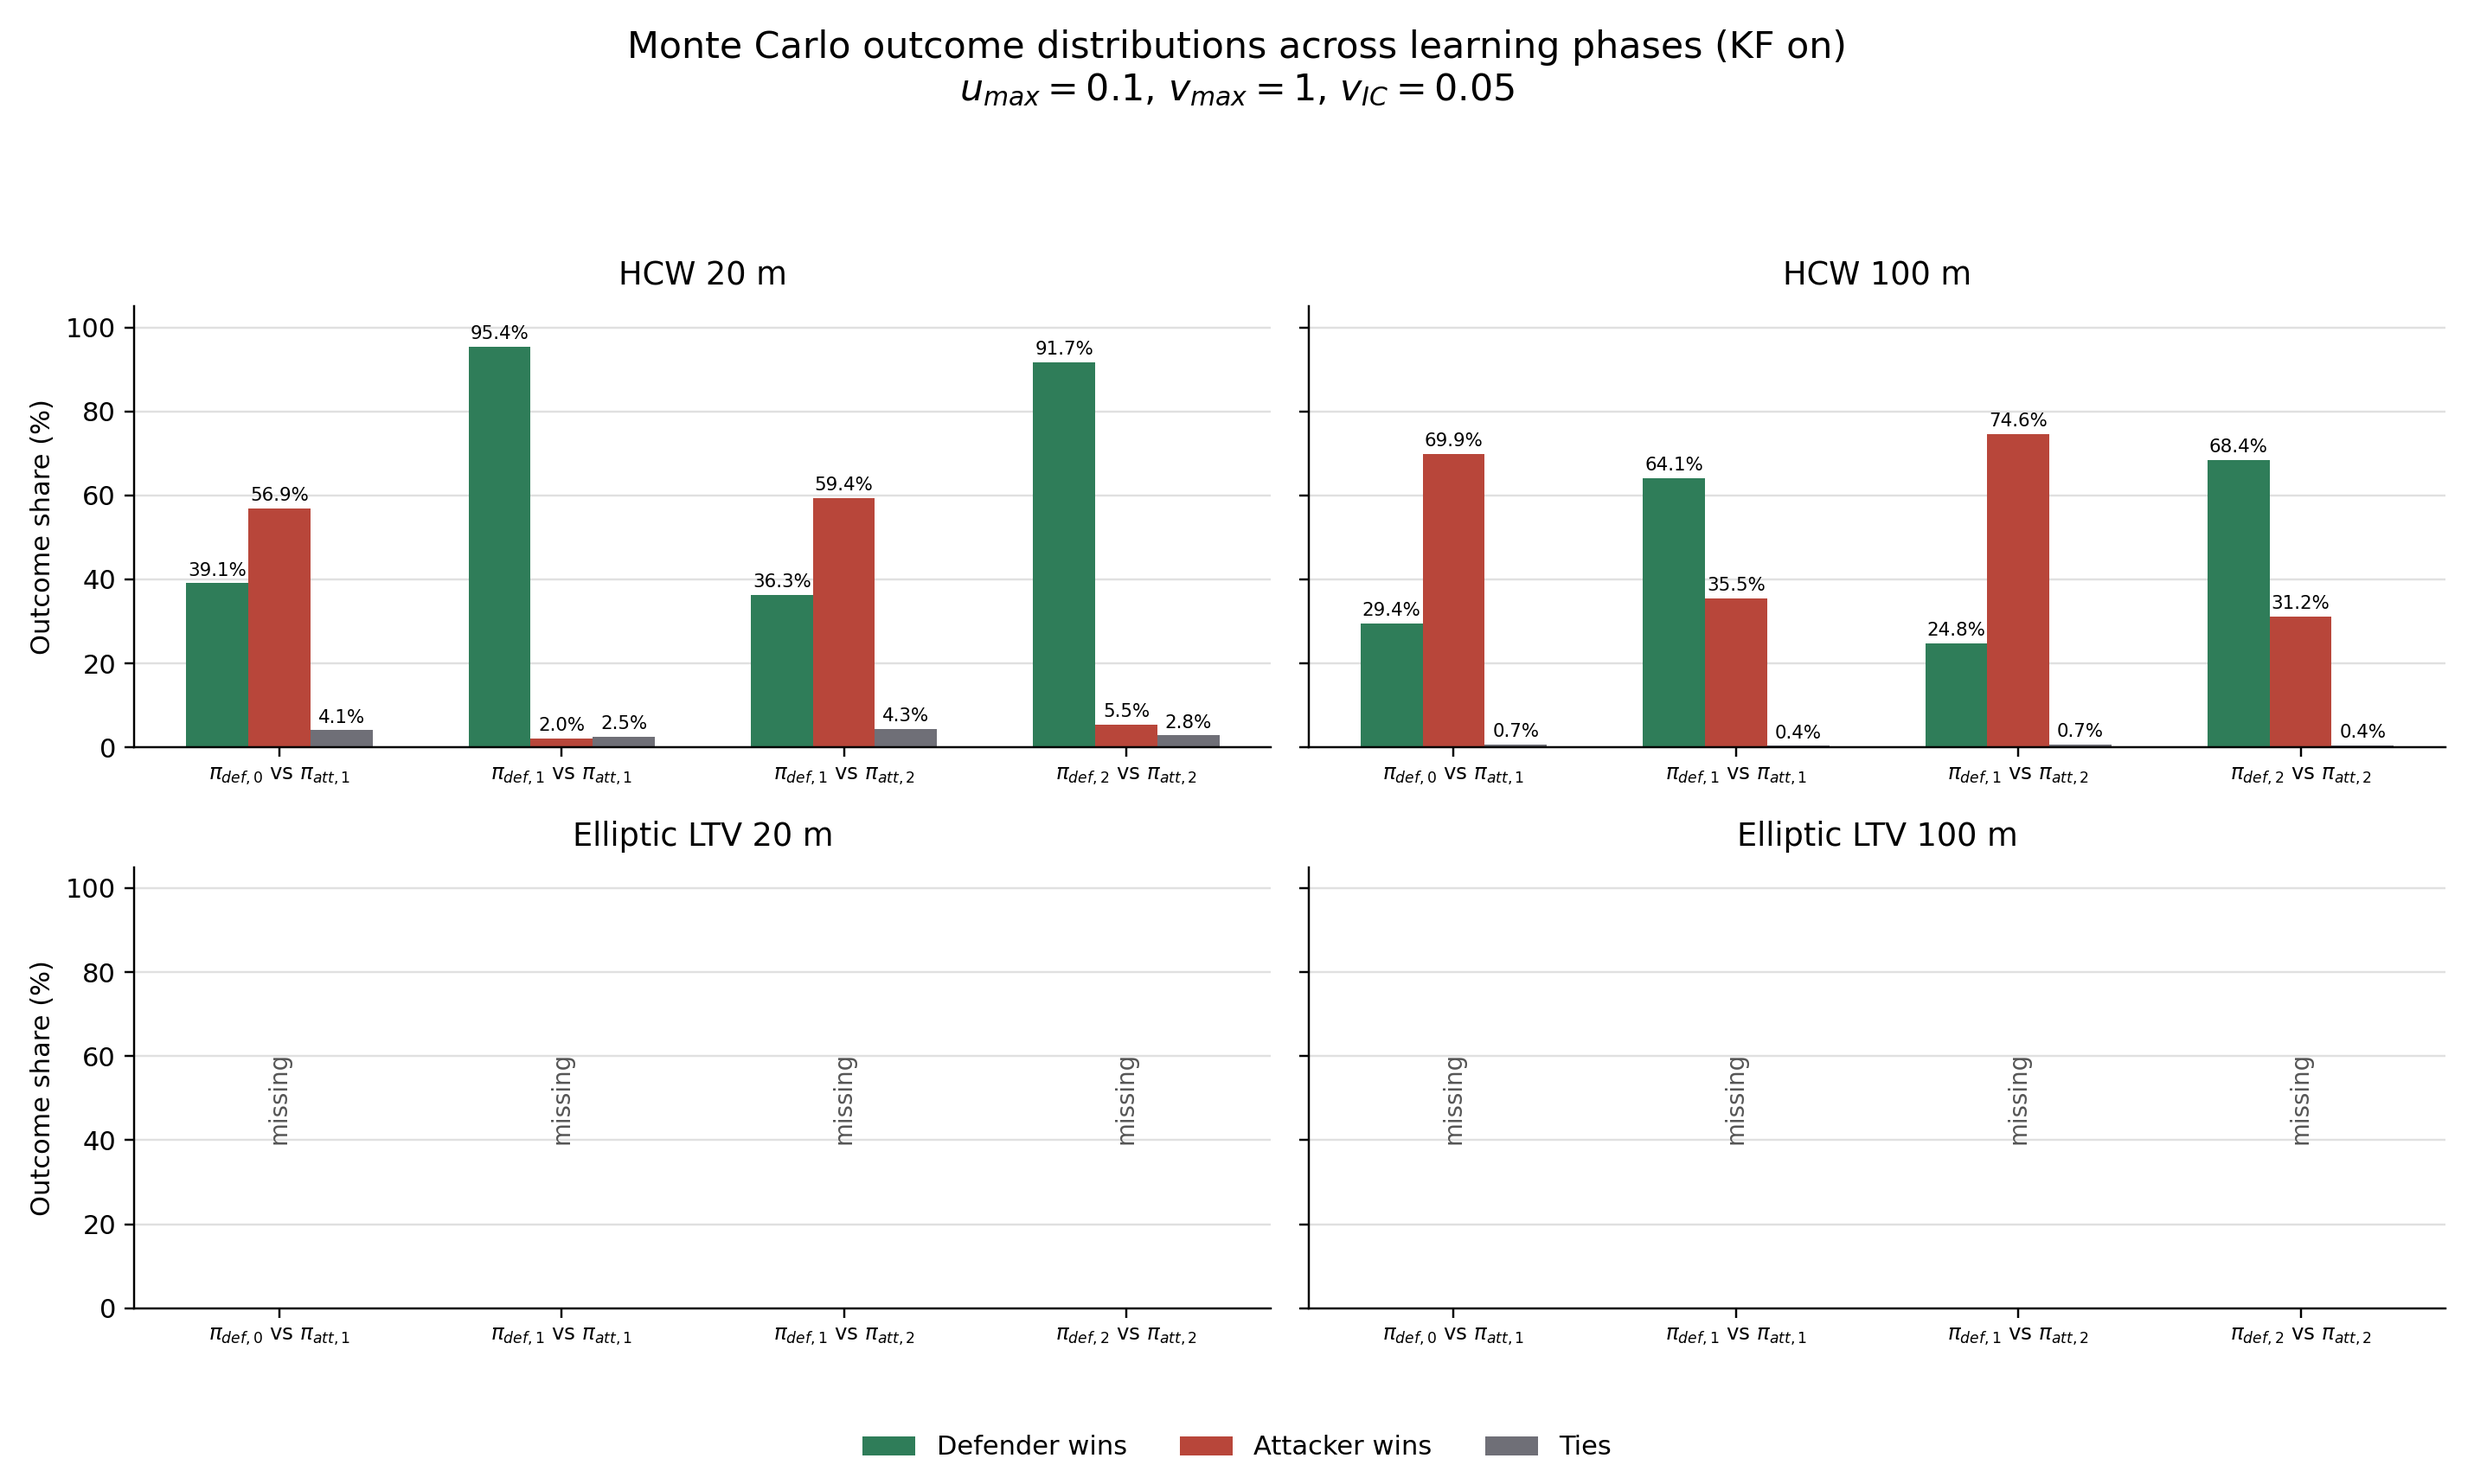
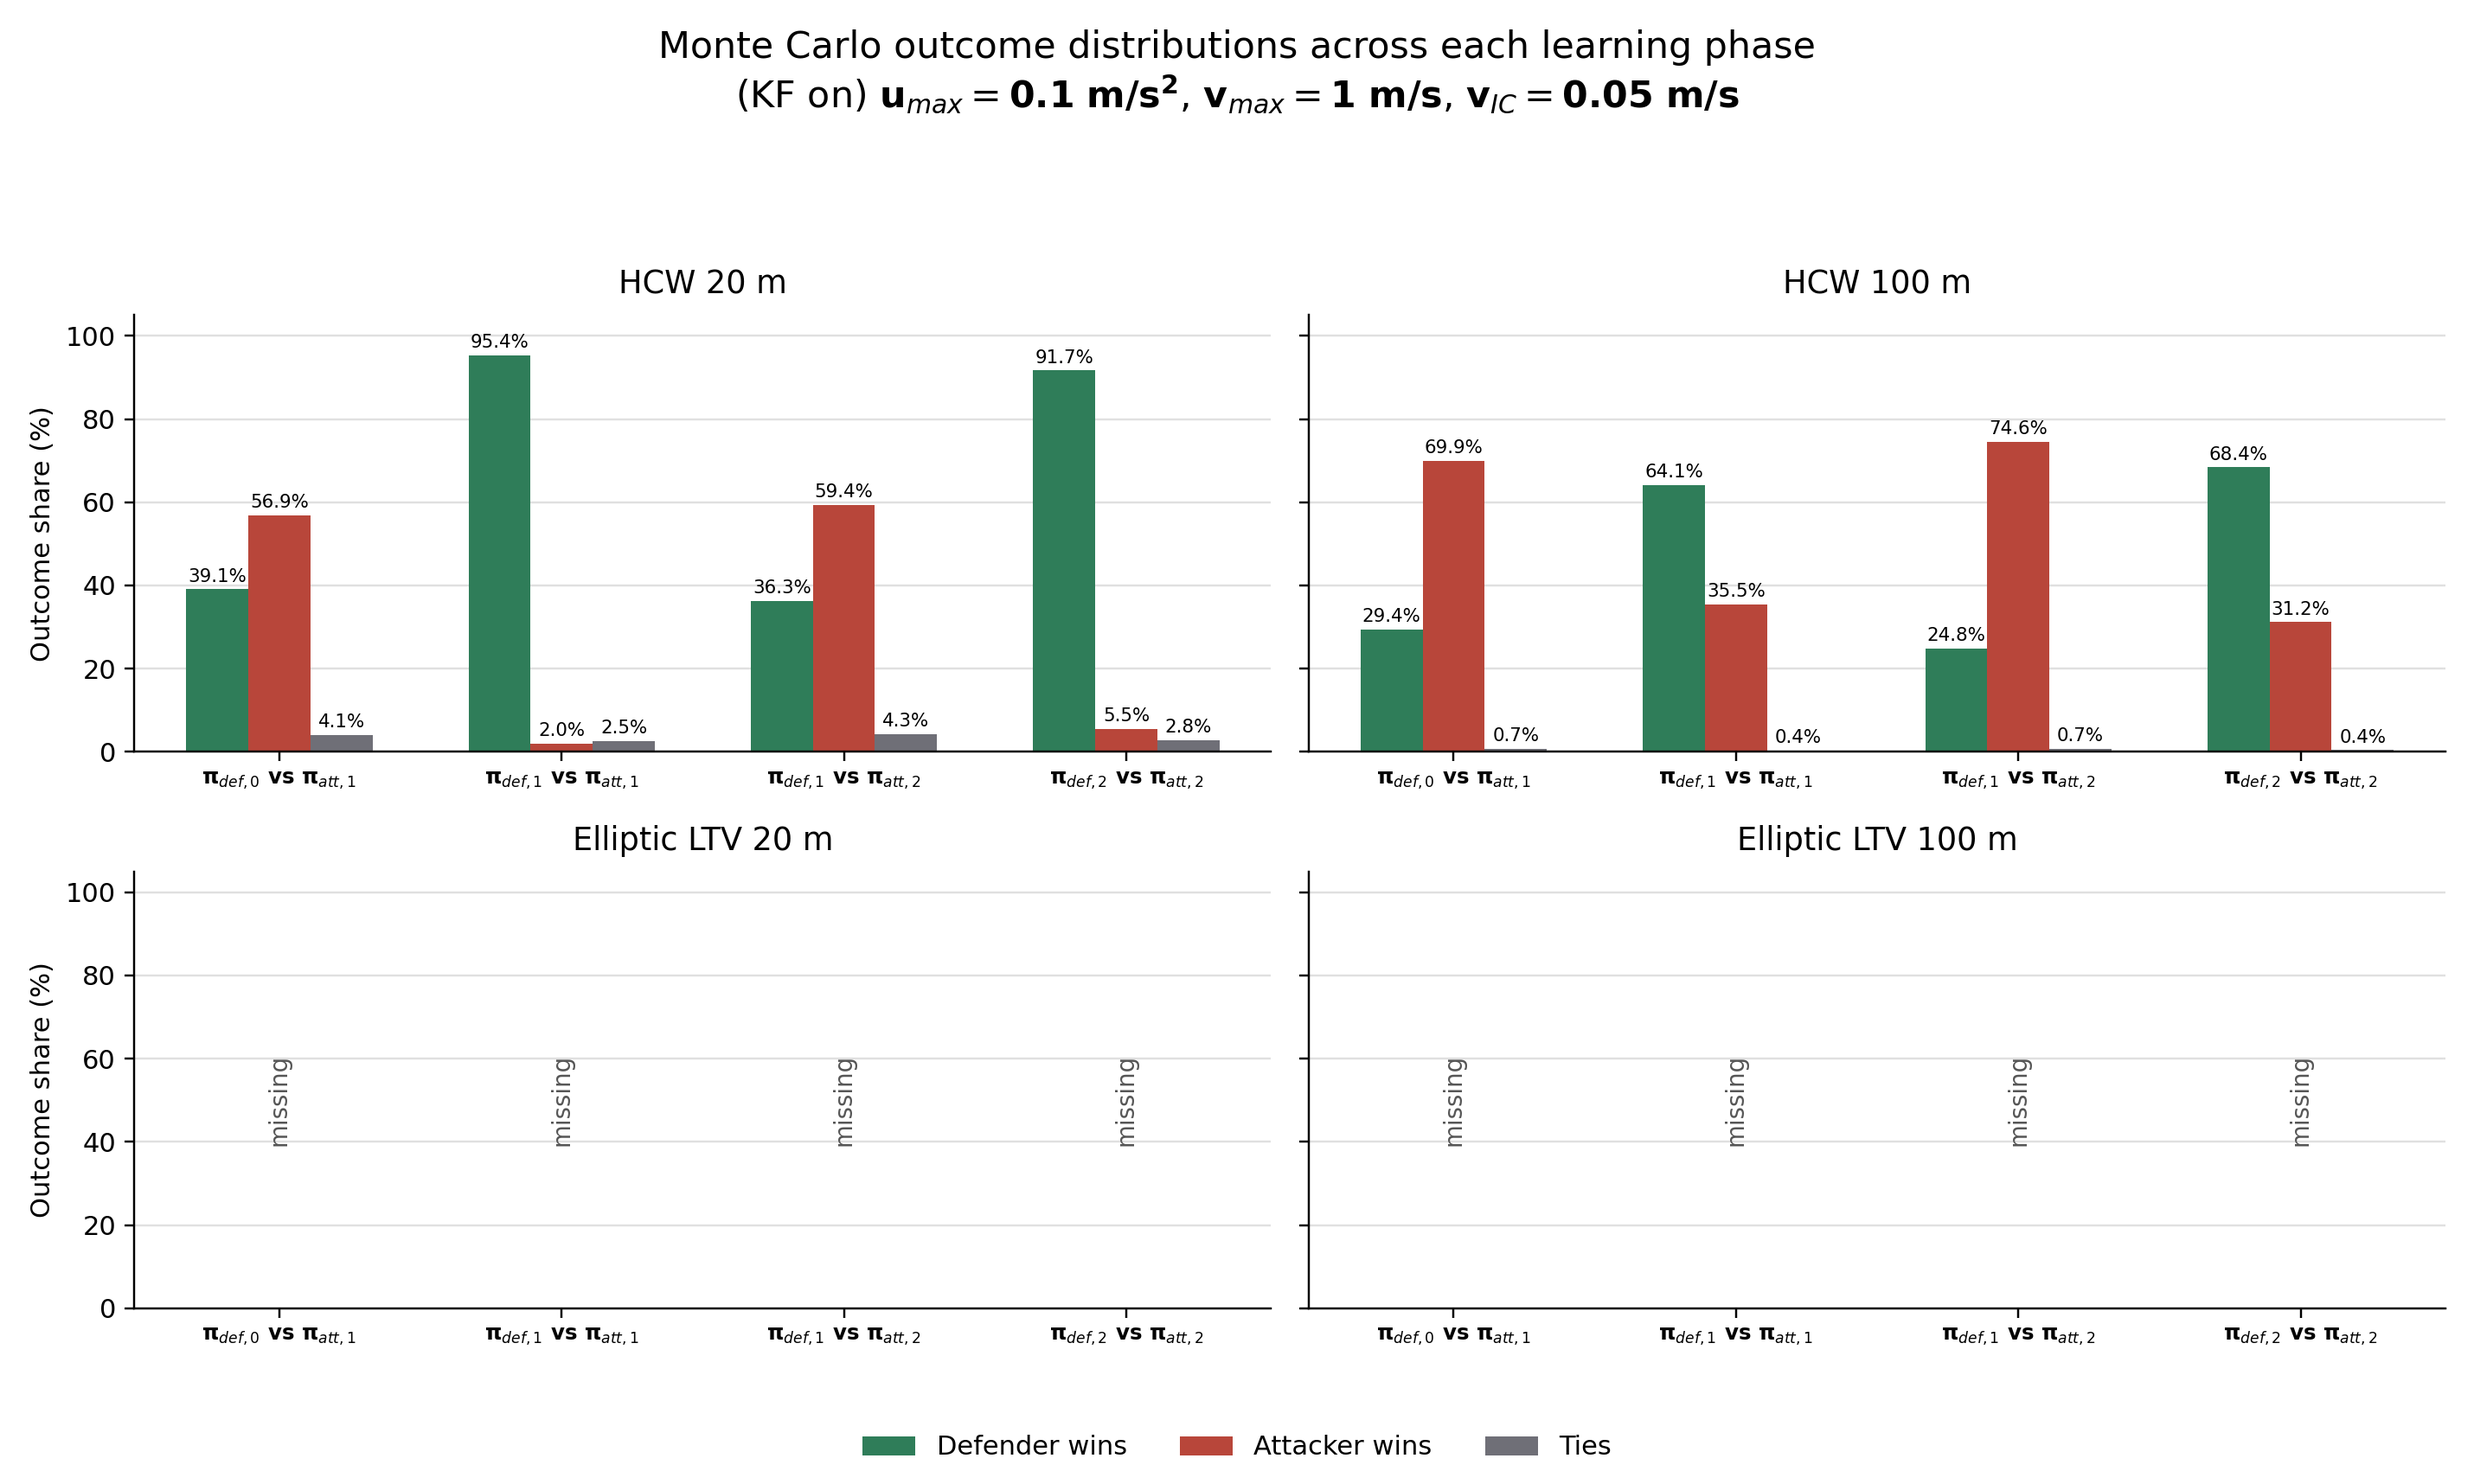
Updated images

diff --git a/LaTeX_Tables/generate_outcome_distribution_histograms.py b/LaTeX_Tables/generate_outcome_distribution_histograms.py
@@ -15,15 +15,24 @@ from typing import Dict, Iterable, List, Tuple
 POLICIES = (
     (
         "Training_Policy_0.1u_1vmax_0.05_icVmax",
-        "$u_{max}=0.1$\n$v_{max}=1$, $v_{IC}=0.05$",
+        r"$\mathbf{u}_{max}=\mathbf{0.1}\ \mathbf{m/s^2}$"
+        "\n"
+        r"$\mathbf{v}_{max}=\mathbf{1}\ \mathbf{m/s}$, "
+        r"$\mathbf{v}_{IC}=\mathbf{0.05}\ \mathbf{m/s}$",
     ),
     (
         "Training_Policy_0.5u_1.5vmax_1.0_icVmax",
-        "$u_{max}=0.5$\n$v_{max}=1.5$, $v_{IC}=1.0$",
+        r"$\mathbf{u}_{max}=\mathbf{0.5}\ \mathbf{m/s^2}$"
+        "\n"
+        r"$\mathbf{v}_{max}=\mathbf{1.5}\ \mathbf{m/s}$, "
+        r"$\mathbf{v}_{IC}=\mathbf{1.0}\ \mathbf{m/s}$",
     ),
     (
         "Training_Policy_2.0u_1vmax_1.0_icVmax",
-        "$u_{max}=2.0$\n$v_{max}=1$, $v_{IC}=1.0$",
+        r"$\mathbf{u}_{max}=\mathbf{2.0}\ \mathbf{m/s^2}$"
+        "\n"
+        r"$\mathbf{v}_{max}=\mathbf{1}\ \mathbf{m/s}$, "
+        r"$\mathbf{v}_{IC}=\mathbf{1.0}\ \mathbf{m/s}$",
     ),
 )
 
@@ -35,10 +44,10 @@ TEST_CASES = (
 )
 
 MATCHUPS = (
-    ("def0_vs_att1", "$\\pi_{def,0}$ vs $\\pi_{att,1}$"),
-    ("def1_vs_att1", "$\\pi_{def,1}$ vs $\\pi_{att,1}$"),
-    ("def1_vs_att2", "$\\pi_{def,1}$ vs $\\pi_{att,2}$"),
-    ("def2_vs_att2", "$\\pi_{def,2}$ vs $\\pi_{att,2}$"),
+    ("def0_vs_att1", r"$\mathbf{\pi}_{def,0}$ vs $\mathbf{\pi}_{att,1}$"),
+    ("def1_vs_att1", r"$\mathbf{\pi}_{def,1}$ vs $\mathbf{\pi}_{att,1}$"),
+    ("def1_vs_att2", r"$\mathbf{\pi}_{def,1}$ vs $\mathbf{\pi}_{att,2}$"),
+    ("def2_vs_att2", r"$\mathbf{\pi}_{def,2}$ vs $\mathbf{\pi}_{att,2}$"),
 )
 
 GROUPS = (
@@ -176,6 +185,8 @@ def plot_histogram(repo_root: Path, out_dir: Path, use_kf: bool) -> Path:
         ax.set_title(case_label, fontsize=12, pad=8)
         ax.set_xticks(x)
         ax.set_xticklabels([label for _, label in POLICIES], fontsize=8)
+        for tick in ax.get_xticklabels():
+            tick.set_fontweight("bold")
         ax.set_ylim(0, 105)
         ax.grid(axis="y", color="#d9d9d9", linewidth=0.8, alpha=0.8)
         ax.set_axisbelow(True)
@@ -187,7 +198,7 @@ def plot_histogram(repo_root: Path, out_dir: Path, use_kf: bool) -> Path:
     handles, labels = axes[0].get_legend_handles_labels()
     fig.legend(handles, labels, loc="lower center", ncol=3, frameon=False)
     fig.suptitle(
-        f"Monte Carlo net outcome distributions across four learning phases ({state_label})",
+        f"Monte Carlo aggregate outcome distributions across four learning phases ({state_label})",
         fontsize=15,
     )
     fig.tight_layout(rect=(0.0, 0.07, 1.0, 0.95))
@@ -264,6 +275,8 @@ def plot_policy_phase_histogram(
         ax.set_title(case_label, fontsize=12, pad=8)
         ax.set_xticks(x)
         ax.set_xticklabels([label for _, label in MATCHUPS], fontsize=8)
+        for tick in ax.get_xticklabels():
+            tick.set_fontweight("bold")
         ax.set_ylim(0, 105)
         ax.grid(axis="y", color="#d9d9d9", linewidth=0.8, alpha=0.8)
         ax.set_axisbelow(True)
@@ -275,7 +288,7 @@ def plot_policy_phase_histogram(
     handles, labels = axes[0].get_legend_handles_labels()
     fig.legend(handles, labels, loc="lower center", ncol=3, frameon=False)
     fig.suptitle(
-        f"Monte Carlo outcome distributions across learning phases ({state_label})\n{policy_label}",
+        f"Monte Carlo outcome distributions across each learning phase\n({state_label}) {policy_label}",
         fontsize=14,
     )
     fig.tight_layout(rect=(0.0, 0.07, 1.0, 0.92))
